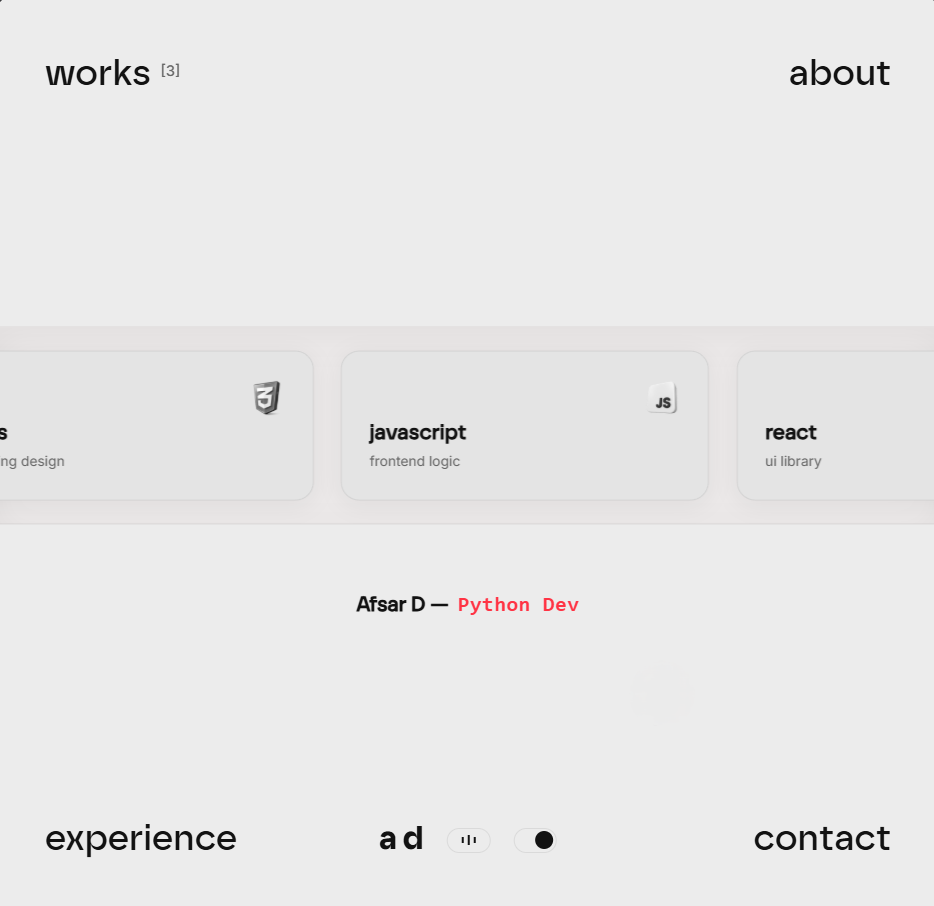
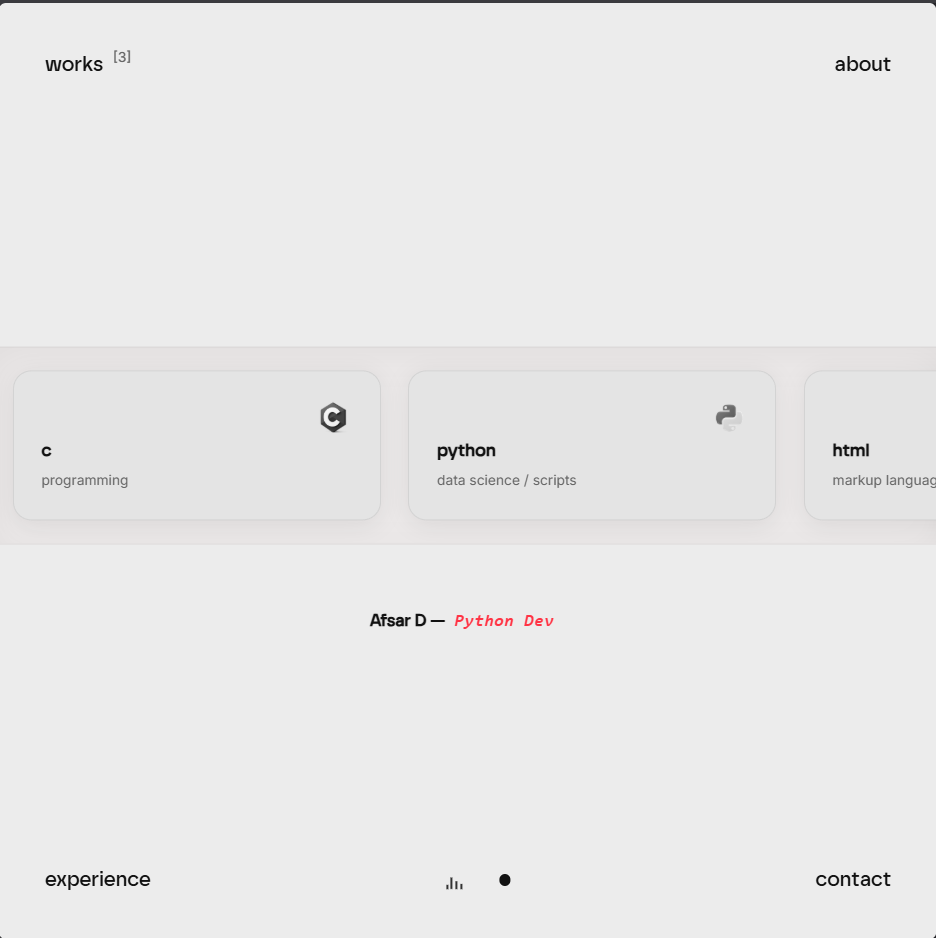
fix: resolve invisible content in about/experience/contact sections

diff --git a/index.html b/index.html
@@ -174,7 +174,7 @@
                             <div class="work-info-content">
                                 <span class="work-snap-num">01</span>
                                 <h2 class="work-snap-title">portfolio website</h2>
-                                <p class="work-snap-desc">A premium single-page portfolio built with Vanilla HTML, CSS, and JavaScript, featuring route-based SPA transitions, a percentage loader, dynamic text scramble effects, background music controls, and responsive layouts.</p>
+                                <p class="work-snap-desc">A premium single-page portfolio built with Vanilla HTML5, CSS3, and JavaScript, featuring interactive horizontal scroll snap loops, quadrant transitions, custom audio visualizers, and responsive animations.</p>
                                 <div class="work-snap-tags">
                                     <span class="tag">HTML</span>
                                     <span class="tag">CSS</span>
@@ -292,7 +292,7 @@
                             <div class="work-info-content">
                                 <span class="work-snap-num">01</span>
                                 <h2 class="work-snap-title">portfolio website</h2>
-                                <p class="work-snap-desc">A premium single-page portfolio built with Vanilla HTML, CSS, and JavaScript, featuring route-based SPA transitions, a percentage loader, dynamic text scramble effects, background music controls, and responsive layouts.</p>
+                                <p class="work-snap-desc">A responsive personal portfolio built with React and Vite, focused on smooth interactions, dynamic physics-based particles, and custom typography navigation.</p>
                                 <div class="work-snap-tags">
                                     <span class="tag">React</span>
                                     <span class="tag">Vite</span>
@@ -855,31 +855,6 @@
             // ==========================================
             // Intersection Observer Reveal Animations
             // ==========================================
-            const revealObserver = new IntersectionObserver((entries) => {
-                entries.forEach(entry => {
-                    if (entry.isIntersecting) {
-                        const parent = entry.target.parentNode;
-                        const siblings = Array.from(parent.children);
-                        const index = siblings.indexOf(entry.target);
-                        const delay = Math.min(index * 60, 360);
-                        entry.target.style.transitionDelay = `${delay}ms`;
-                        entry.target.classList.add("is-visible");
-                    } else {
-                        // Reverse animation on scroll out
-                        entry.target.classList.remove("is-visible");
-                        entry.target.style.transitionDelay = "0ms";
-                    }
-                });
-            }, { threshold: 0.02 });
-
-            const triggerScrollReveals = () => {
-                const revealElements = document.querySelectorAll(".reveal-on-scroll");
-                revealElements.forEach(el => revealObserver.observe(el));
-            };
-
-            // ==========================================
-            // SPA Routing Mechanism (Clean Pathnames)
-            // ==========================================
             const views = {
                 home: document.getElementById("home-view"),
                 works: document.getElementById("works-view"),
@@ -928,6 +903,11 @@
             let hasExpandedProject = false;
             let currentViewId = getRouteFromUrl();
 
+            const getWorksSectionLeft = (worksList, sectionIndex) => {
+                const section = worksList && worksList.children ? worksList.children[sectionIndex] : null;
+                return section ? section.offsetLeft : 0;
+            };
+
             const handleRoute = (viewId) => {
                 if (!views[viewId]) viewId = "home";
 
@@ -965,7 +945,6 @@
                 }
                 
                 // Show/hide persistent floating menu and set clean path history states
-                const targetPath = basepath + (viewId === "home" ? "/" : "/" + viewId);
                 if (viewId === "home") {
                     floatingMenu.classList.remove("menu-visible");
                     menuLinks.home.classList.add("active-page");
@@ -974,16 +953,24 @@
                     menuLinks[viewId].classList.add("active-page");
                 }
 
-                // Push or replace navigation state cleanly (clears hashes instantly on landing)
-                if (window.location.pathname !== targetPath || window.location.hash) {
-                    history.replaceState(null, document.title, targetPath);
+                if (views[viewId]) {
+                    views[viewId].scrollTop = 0;
                 }
 
                 // Smoothly scroll window to top on view changes
                 window.scrollTo({ top: 0, behavior: "auto" });
 
-                // Run Intersection Observer triggers immediately for new view
-                triggerScrollReveals();
+                // Reveal all scroll-animated elements in the newly active view
+                if (viewId !== "home") {
+                    const activeView = views[viewId];
+                    if (activeView) {
+                        setTimeout(() => {
+                            activeView.querySelectorAll(".reveal-on-scroll").forEach((el) => {
+                                el.classList.add("is-visible");
+                            });
+                        }, 80);
+                    }
+                }
 
                 if (viewId === "about") {
                     setTimeout(animateStatsCountUp, 150); // Counts up numbers dynamically on route enter
@@ -994,12 +981,7 @@
                     if (worksList) {
                         setTimeout(() => {
                             worksList.style.scrollBehavior = "auto";
-                            const rect = worksList.getBoundingClientRect();
-                            let clientW = rect.width;
-                            if (!clientW || clientW === 0) {
-                                clientW = Math.min(window.innerWidth, 1200);
-                            }
-                            worksList.scrollLeft = clientW;
+                            worksList.scrollLeft = getWorksSectionLeft(worksList, 1);
                             
                             // Synchronize layout flush
                             const syncFlush = worksList.scrollLeft;
@@ -1020,15 +1002,14 @@
                     const viewId = href.replace("#", "");
                     if (viewIndices[viewId] !== undefined) {
                         e.preventDefault();
-                        const nextPath = basepath + (viewId === "home" ? "/" : "/" + viewId);
-                        history.pushState(null, null, nextPath);
+                        window.location.hash = viewId === "home" ? "" : viewId;
                         handleRoute(viewId);
                     }
                 }
             });
 
-            // Listen to browser forward/back navigate gestures
-            window.addEventListener("popstate", () => {
+            // Listen to browser forward/back navigate gestures and hash changes
+            window.addEventListener("hashchange", () => {
                 const currentRoute = getRouteFromUrl();
                 handleRoute(currentRoute);
             });
@@ -1163,10 +1144,7 @@
                     }
                     
                     if (currentView !== "home") {
-                        const targetPath = basepath + "/";
-                        if (window.location.pathname !== targetPath) {
-                            history.pushState(null, document.title, targetPath);
-                        }
+                        window.location.hash = "";
                         handleRoute("home");
                         playClickSound();
                     }
@@ -1245,7 +1223,7 @@
                     if (scrollLeft <= 5) {
                         isLooping = true;
                         worksList.style.scrollBehavior = "auto";
-                        worksList.scrollLeft = clientW * 3;
+                        worksList.scrollLeft = getWorksSectionLeft(worksList, 3);
                         
                         // Force layout synchronization read-back reflow
                         const forceReflow = worksList.scrollLeft;
@@ -1257,7 +1235,7 @@
                     } else if (scrollLeft >= (clientW * 4 - 8)) { // 8px tolerance window
                         isLooping = true;
                         worksList.style.scrollBehavior = "auto";
-                        worksList.scrollLeft = clientW * 1;
+                        worksList.scrollLeft = getWorksSectionLeft(worksList, 1);
                         
                         // Force layout synchronization read-back reflow
                         const forceReflow = worksList.scrollLeft;

diff --git a/index.css b/index.css
@@ -476,9 +476,6 @@ body {
     text-align: center;
     max-width: 650px;
     padding: 0 24px;
-    width: 100%;
-    display: flex;
-    justify-content: center;
 }
 
 .quote-line {
@@ -1587,8 +1584,6 @@ body.menu-lock {
     justify-content: center;
     align-items: center;
     gap: 8px;
-    width: max-content;
-    white-space: nowrap;
 }
 
 .static-name {
@@ -1598,8 +1593,10 @@ body.menu-lock {
 
 .dynamic-text {
     display: inline-block;
-    width: 12ch;
-    text-align: left;
+    width: 13ch;
+    min-width: 13ch;
+    text-align: center;
+    overflow: hidden;
     color: var(--accent);
     font-weight: 600;
     font-family: monospace;